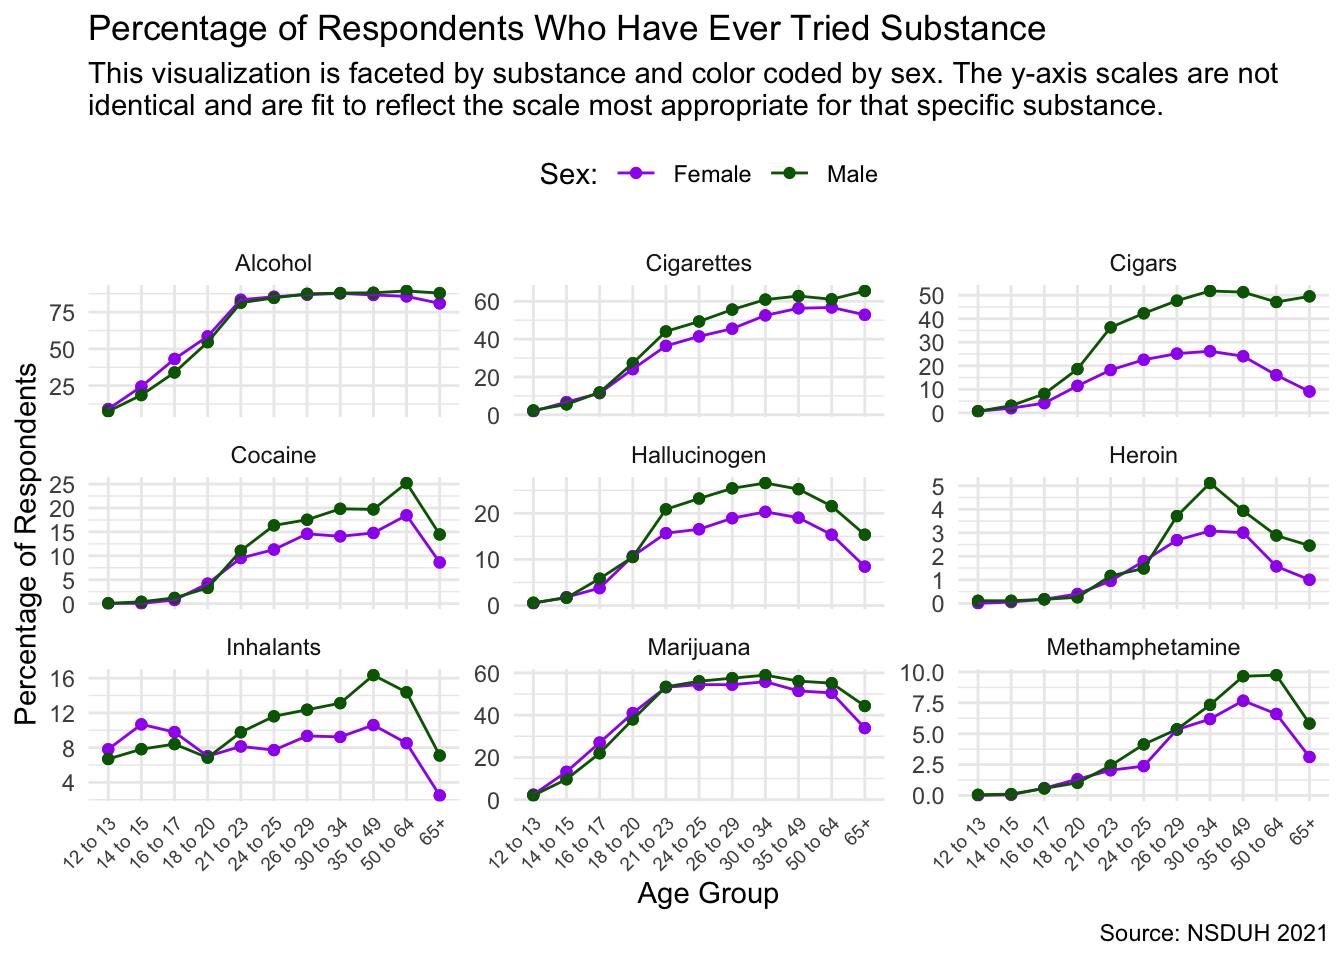
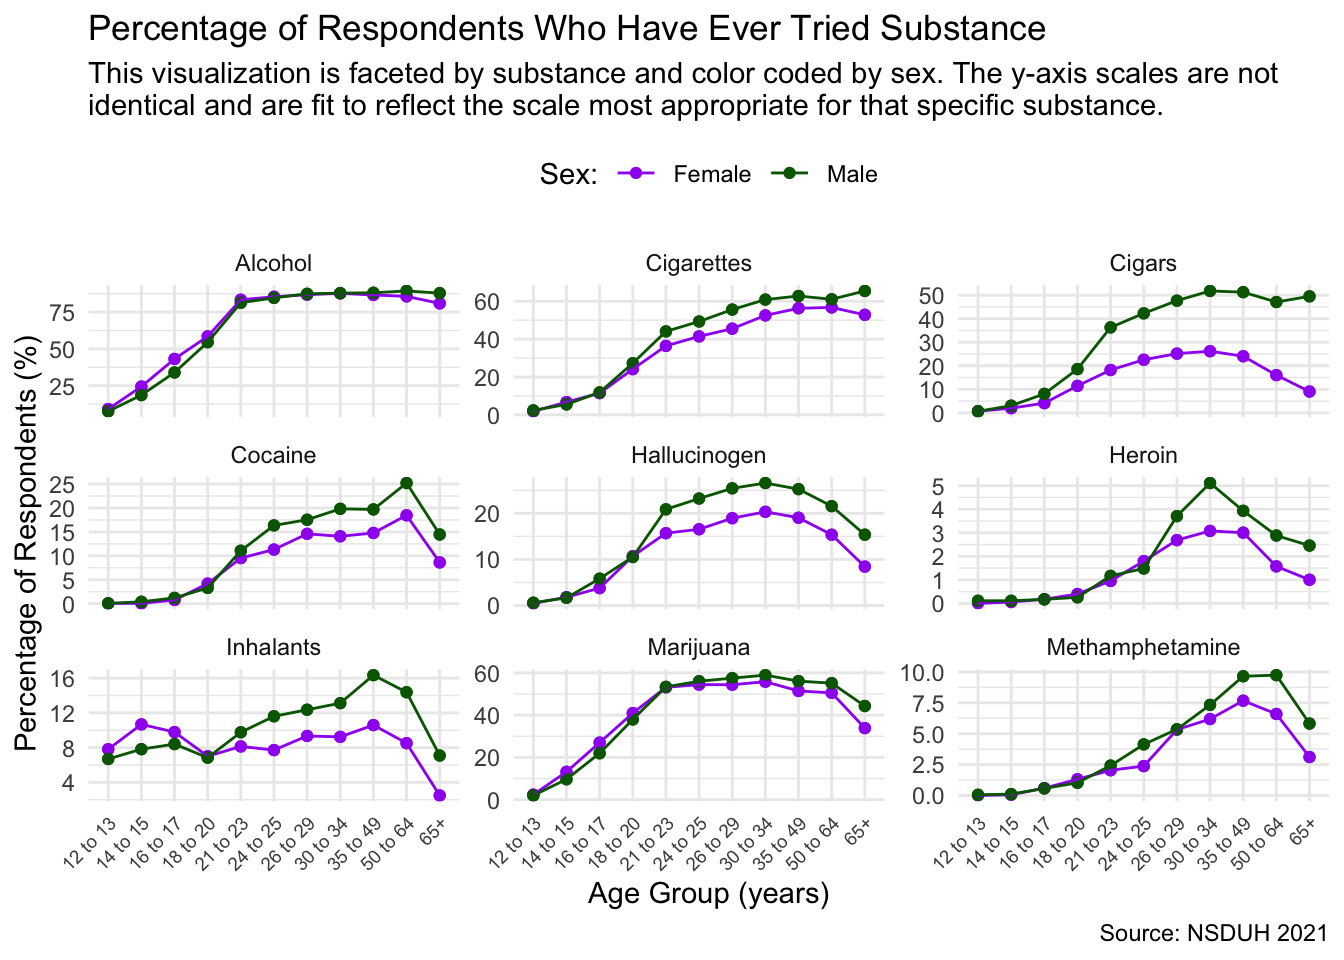
continued revisions to analysis

Changed region(s): [[0.0, 0.3438, 0.0312, 0.7812], [0.4375, 0.9062, 0.625, 0.9688]]

diff --git a/docs/Example_Analysis.html b/docs/Example_Analysis.html
@@ -442,9 +442,9 @@ Visualization Note
 <span id="cb2-15"><a href="#cb2-15" aria-hidden="true" tabindex="-1"></a>  <span class="fu">geom_point</span>(<span class="at">size =</span> <span class="fl">2.5</span>) <span class="sc">+</span></span>
 <span id="cb2-16"><a href="#cb2-16" aria-hidden="true" tabindex="-1"></a>  <span class="fu">geom_path</span>(<span class="at">linetype =</span> <span class="dv">2</span>) <span class="sc">+</span></span>
 <span id="cb2-17"><a href="#cb2-17" aria-hidden="true" tabindex="-1"></a>  <span class="fu">labs</span>(<span class="at">title =</span> <span class="st">"Percentage of Respondents Who Have Ever Tried Substance"</span>,</span>
-<span id="cb2-18"><a href="#cb2-18" aria-hidden="true" tabindex="-1"></a>       <span class="at">subtitle =</span> <span class="st">"This visualization is color coded by substance and compared across age group. In the NSDUH, age </span><span class="sc">\n</span><span class="st">is recorded as a categorical variables using a set of age groups, which vary in the amount of </span><span class="sc">\n</span><span class="st">years included. The age group interval lengths are narrower in adolescence as compared to younger </span><span class="sc">\n</span><span class="st">and older years."</span>,</span>
-<span id="cb2-19"><a href="#cb2-19" aria-hidden="true" tabindex="-1"></a>       <span class="at">x =</span> <span class="st">"Age Group"</span>,</span>
-<span id="cb2-20"><a href="#cb2-20" aria-hidden="true" tabindex="-1"></a>       <span class="at">y =</span> <span class="st">"Percentage of Respondents"</span>,</span>
+<span id="cb2-18"><a href="#cb2-18" aria-hidden="true" tabindex="-1"></a>       <span class="at">subtitle =</span> <span class="st">"This visualization is color coded by substance and compared across age group. In the NSDUH, </span><span class="sc">\n</span><span class="st">age is recorded as a categorical variables using a set of age groups, which vary in the amount of </span><span class="sc">\n</span><span class="st">years included. The age group interval lengths are narrower in adolescence as compared to </span><span class="sc">\n</span><span class="st">younger and older years."</span>,</span>
+<span id="cb2-19"><a href="#cb2-19" aria-hidden="true" tabindex="-1"></a>       <span class="at">x =</span> <span class="st">"Age Group (years)"</span>,</span>
+<span id="cb2-20"><a href="#cb2-20" aria-hidden="true" tabindex="-1"></a>       <span class="at">y =</span> <span class="st">"Percentage of Respondents (%)"</span>,</span>
 <span id="cb2-21"><a href="#cb2-21" aria-hidden="true" tabindex="-1"></a>       <span class="at">caption =</span> <span class="st">"Source: NSDUH 2021"</span>) <span class="sc">+</span></span>
 <span id="cb2-22"><a href="#cb2-22" aria-hidden="true" tabindex="-1"></a>  <span class="fu">theme_minimal</span>() <span class="sc">+</span></span>
 <span id="cb2-23"><a href="#cb2-23" aria-hidden="true" tabindex="-1"></a>  <span class="fu">theme</span>(<span class="at">axis.text.x =</span> <span class="fu">element_text</span>(<span class="at">angle =</span> <span class="dv">45</span>, <span class="at">hjust =</span> <span class="dv">1</span>))  <span class="sc">+</span></span>
@@ -480,7 +480,7 @@ Visualization Note
 </div>
 </div>
 <div class="callout-body-container callout-body">
-<p>Please note that the scales on the y-axis are not identical across the faceted plots for the next two visualizations. Because of the wide variation in prevalence of use for these different substances, I chose to adjust the y-axis’ scale in order to clarify the use differences across sex.</p>
+<p>Please note that the scales on the y-axis are not identical across the faceted plots for the next two visualizations. Because some substances are used much more widely than other substances, I chose to adjust the y-axis’ scale in order to highlight the use differences across sex.</p>
 </div>
 </div>
 <div class="cell">
@@ -513,8 +513,8 @@ Visualization Note
 <span id="cb3-25"><a href="#cb3-25" aria-hidden="true" tabindex="-1"></a>  <span class="fu">geom_path</span>() <span class="sc">+</span></span>
 <span id="cb3-26"><a href="#cb3-26" aria-hidden="true" tabindex="-1"></a>  <span class="fu">labs</span>(<span class="at">title =</span> <span class="st">"Percentage of Respondents Who Have Ever Tried Substance"</span>,</span>
 <span id="cb3-27"><a href="#cb3-27" aria-hidden="true" tabindex="-1"></a>       <span class="at">subtitle =</span> <span class="st">"This visualization is faceted by substance and color coded by sex. The y-axis scales are not </span><span class="sc">\n</span><span class="st">identical and are fit to reflect the scale most appropriate for that specific substance."</span>,</span>
-<span id="cb3-28"><a href="#cb3-28" aria-hidden="true" tabindex="-1"></a>       <span class="at">x =</span> <span class="st">"Age Group"</span>,</span>
-<span id="cb3-29"><a href="#cb3-29" aria-hidden="true" tabindex="-1"></a>       <span class="at">y =</span> <span class="st">"Percentage of Respondents"</span>,</span>
+<span id="cb3-28"><a href="#cb3-28" aria-hidden="true" tabindex="-1"></a>       <span class="at">x =</span> <span class="st">"Age Group (years)"</span>,</span>
+<span id="cb3-29"><a href="#cb3-29" aria-hidden="true" tabindex="-1"></a>       <span class="at">y =</span> <span class="st">"Percentage of Respondents (%)"</span>,</span>
 <span id="cb3-30"><a href="#cb3-30" aria-hidden="true" tabindex="-1"></a>       <span class="at">color =</span> <span class="st">"Sex:"</span>,</span>
 <span id="cb3-31"><a href="#cb3-31" aria-hidden="true" tabindex="-1"></a>       <span class="at">caption =</span> <span class="st">"Source: NSDUH 2021"</span>) <span class="sc">+</span></span>
 <span id="cb3-32"><a href="#cb3-32" aria-hidden="true" tabindex="-1"></a>  <span class="fu">theme_minimal</span>() <span class="sc">+</span></span>
@@ -530,8 +530,8 @@ Visualization Note
 </section>
 <section id="recent-substance-use-across-age-and-sex" class="level2">
 <h2 class="anchored" data-anchor-id="recent-substance-use-across-age-and-sex">Recent Substance Use Across Age and Sex</h2>
-<p><strong>How does recent drug use vary across age and sex?</strong></p>
-<p>In this section, I used survey data about more recent substance use. I chose to define “recent use” as happening in the last 12 months across all substances. Similar to the responses related to any lifetime use in my earlier visualization, male respondents are overall more likely to use these substances than female participants.</p>
+<p><strong>How does <em>recent</em> drug use vary across age and sex?</strong></p>
+<p>In this section, I used survey data about more recent substance use, as compared to any lifetime use. I chose to define “recent use” as happening in the last 12 months across all substances. Similar to the responses related to any lifetime use in my earlier visualization, male respondents are overall more likely to use these substances than female participants.</p>
 <div class="cell">
 <details>
 <summary>Code</summary>
@@ -560,8 +560,8 @@ Visualization Note
 <span id="cb4-23"><a href="#cb4-23" aria-hidden="true" tabindex="-1"></a>  <span class="fu">labs</span>(</span>
 <span id="cb4-24"><a href="#cb4-24" aria-hidden="true" tabindex="-1"></a>    <span class="at">title =</span> <span class="st">"Percentage of Respondents with Recent Substance Use"</span>,</span>
 <span id="cb4-25"><a href="#cb4-25" aria-hidden="true" tabindex="-1"></a>    <span class="at">subtitle =</span> <span class="st">"Recent substance use is defined as within the last 12 months. This visualization is faceted by </span><span class="sc">\n</span><span class="st">substance and color coded by sex. The y-axis scales are not identical and are fit to reflect the </span><span class="sc">\n</span><span class="st">scale most appropriate for that specific substance."</span>,</span>
-<span id="cb4-26"><a href="#cb4-26" aria-hidden="true" tabindex="-1"></a>    <span class="at">x =</span> <span class="st">"Age Group"</span>,</span>
-<span id="cb4-27"><a href="#cb4-27" aria-hidden="true" tabindex="-1"></a>    <span class="at">y =</span> <span class="st">"Percentage of Respondents"</span>,</span>
+<span id="cb4-26"><a href="#cb4-26" aria-hidden="true" tabindex="-1"></a>    <span class="at">x =</span> <span class="st">"Age Group (years)"</span>,</span>
+<span id="cb4-27"><a href="#cb4-27" aria-hidden="true" tabindex="-1"></a>    <span class="at">y =</span> <span class="st">"Percentage of Respondents (%)"</span>,</span>
 <span id="cb4-28"><a href="#cb4-28" aria-hidden="true" tabindex="-1"></a>    <span class="at">fill =</span> <span class="st">"Sex:"</span>,</span>
 <span id="cb4-29"><a href="#cb4-29" aria-hidden="true" tabindex="-1"></a>    <span class="at">caption =</span> <span class="st">"Source: NSDUH 2021"</span>) <span class="sc">+</span></span>
 <span id="cb4-30"><a href="#cb4-30" aria-hidden="true" tabindex="-1"></a>  <span class="fu">theme_minimal</span>() <span class="sc">+</span></span>
@@ -636,8 +636,8 @@ Visualization Note
 <span id="cb5-52"><a href="#cb5-52" aria-hidden="true" tabindex="-1"></a>    <span class="at">title =</span> <span class="st">"Age When Respondent First Used Substance"</span>,</span>
 <span id="cb5-53"><a href="#cb5-53" aria-hidden="true" tabindex="-1"></a>    <span class="at">subtitle =</span> <span class="st">"Substances are organized by median age of substance use initiation, with greater </span><span class="sc">\n</span><span class="st">median age at the top of the plot. The percentage on each tile reflects the percentage </span><span class="sc">\n</span><span class="st">of respondents who have ever used that substance and first used it during that age </span><span class="sc">\n</span><span class="st">range."</span>,</span>
 <span id="cb5-54"><a href="#cb5-54" aria-hidden="true" tabindex="-1"></a>    <span class="at">x =</span> <span class="st">"Age of Substance Use Initiation (years)"</span>,</span>
-<span id="cb5-55"><a href="#cb5-55" aria-hidden="true" tabindex="-1"></a>    <span class="at">y =</span> <span class="st">""</span>,</span>
-<span id="cb5-56"><a href="#cb5-56" aria-hidden="true" tabindex="-1"></a>    <span class="at">fill =</span> <span class="st">"Percentage </span><span class="sc">\n</span><span class="st">of Respondents"</span>,</span>
+<span id="cb5-55"><a href="#cb5-55" aria-hidden="true" tabindex="-1"></a>    <span class="at">y =</span> <span class="st">"Substance"</span>,</span>
+<span id="cb5-56"><a href="#cb5-56" aria-hidden="true" tabindex="-1"></a>    <span class="at">fill =</span> <span class="st">"Percentage </span><span class="sc">\n</span><span class="st">of Respondents (%)"</span>,</span>
 <span id="cb5-57"><a href="#cb5-57" aria-hidden="true" tabindex="-1"></a>    <span class="at">caption =</span> <span class="st">"Source: NSDUH 2021"</span></span>
 <span id="cb5-58"><a href="#cb5-58" aria-hidden="true" tabindex="-1"></a>  ) <span class="sc">+</span> </span>
 <span id="cb5-59"><a href="#cb5-59" aria-hidden="true" tabindex="-1"></a>  <span class="fu">theme</span>(<span class="at">axis.text.x =</span> <span class="fu">element_text</span>(<span class="at">angle =</span> <span class="dv">45</span>, <span class="at">hjust =</span> <span class="dv">1</span>)) <span class="sc">+</span></span>
@@ -651,7 +651,7 @@ Visualization Note
 </section>
 <section id="summary" class="level1">
 <h1>Summary</h1>
-<p>As represented in the NSDUH survey data, substance use varies widely across age and sex. There are gender and age gaps in the number of respondents who have ever used and recently used these substances. These trends are amplified in specific substances. In general, respondents were most likely to have first tried a substance in their later teenage years. One possible limitation of this analysis is the use of survey data, which relies on self-reported substance use. This analysis is only the tip of the iceberg in exploring demographic differences in substance use. I am so excited to continue learning about statistical analyses and epidemiology so that I will become better equipped to continue exploring these questions and investigating these topics.</p>
+<p>As represented in the NSDUH survey data, substance use varies widely across age and sex. There are gender and age gaps in the number of respondents who have ever used and recently used these substances. Some of these trends are unique to specific substances. In general, respondents were most likely to have first tried a substance in their later teenage years. One possible limitation of this analysis is the use of survey data, which relies on self-reported substance use. This analysis is only the tip of the iceberg in exploring demographic differences in substance use. I am so excited to continue learning about epidemiology and statistical analyses so that I will become better equipped to continue exploring these research questions.</p>
 <section id="functions-used" class="level3">
 <h3 class="anchored" data-anchor-id="functions-used">Functions used</h3>
 <p><strong>dyplr:</strong> filter, select, summarise, mutate, group_by, ungroup, arrange</p>
